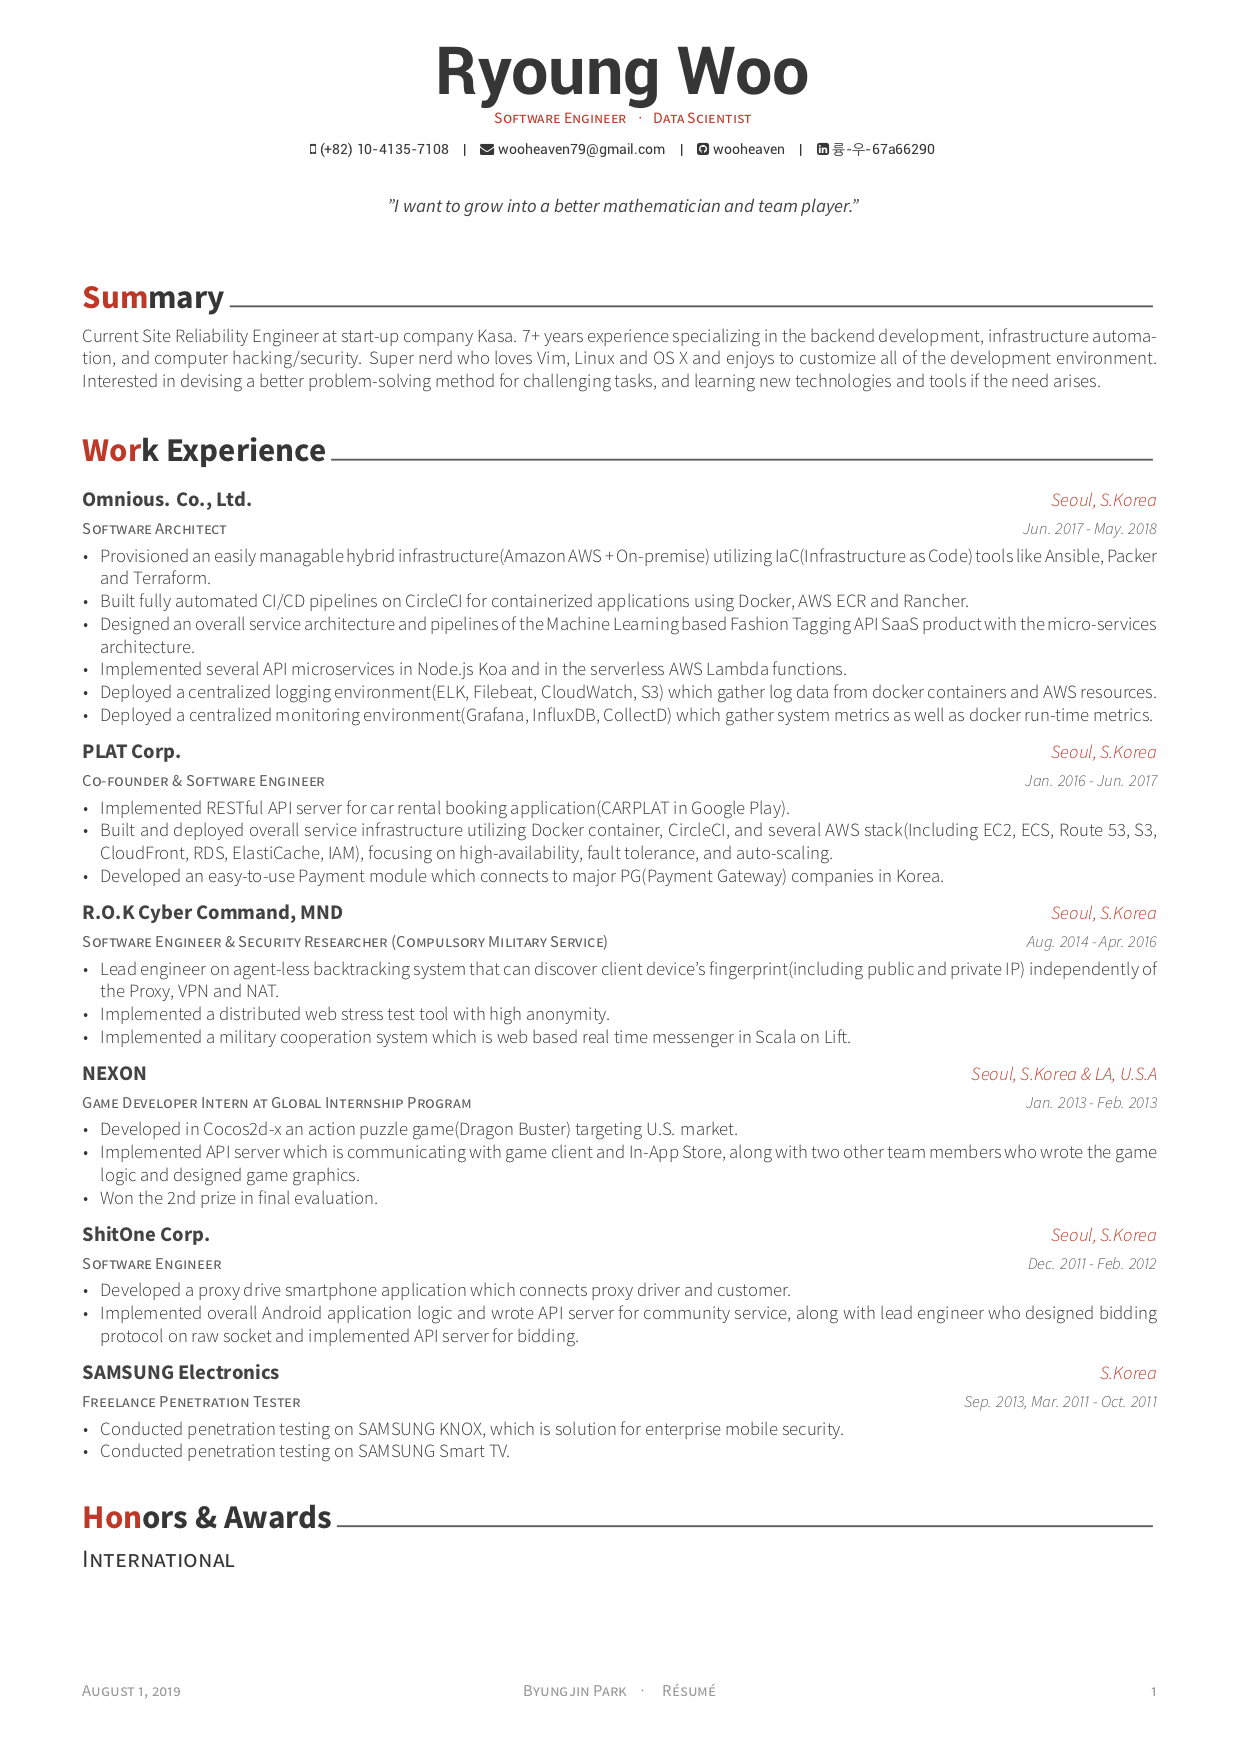
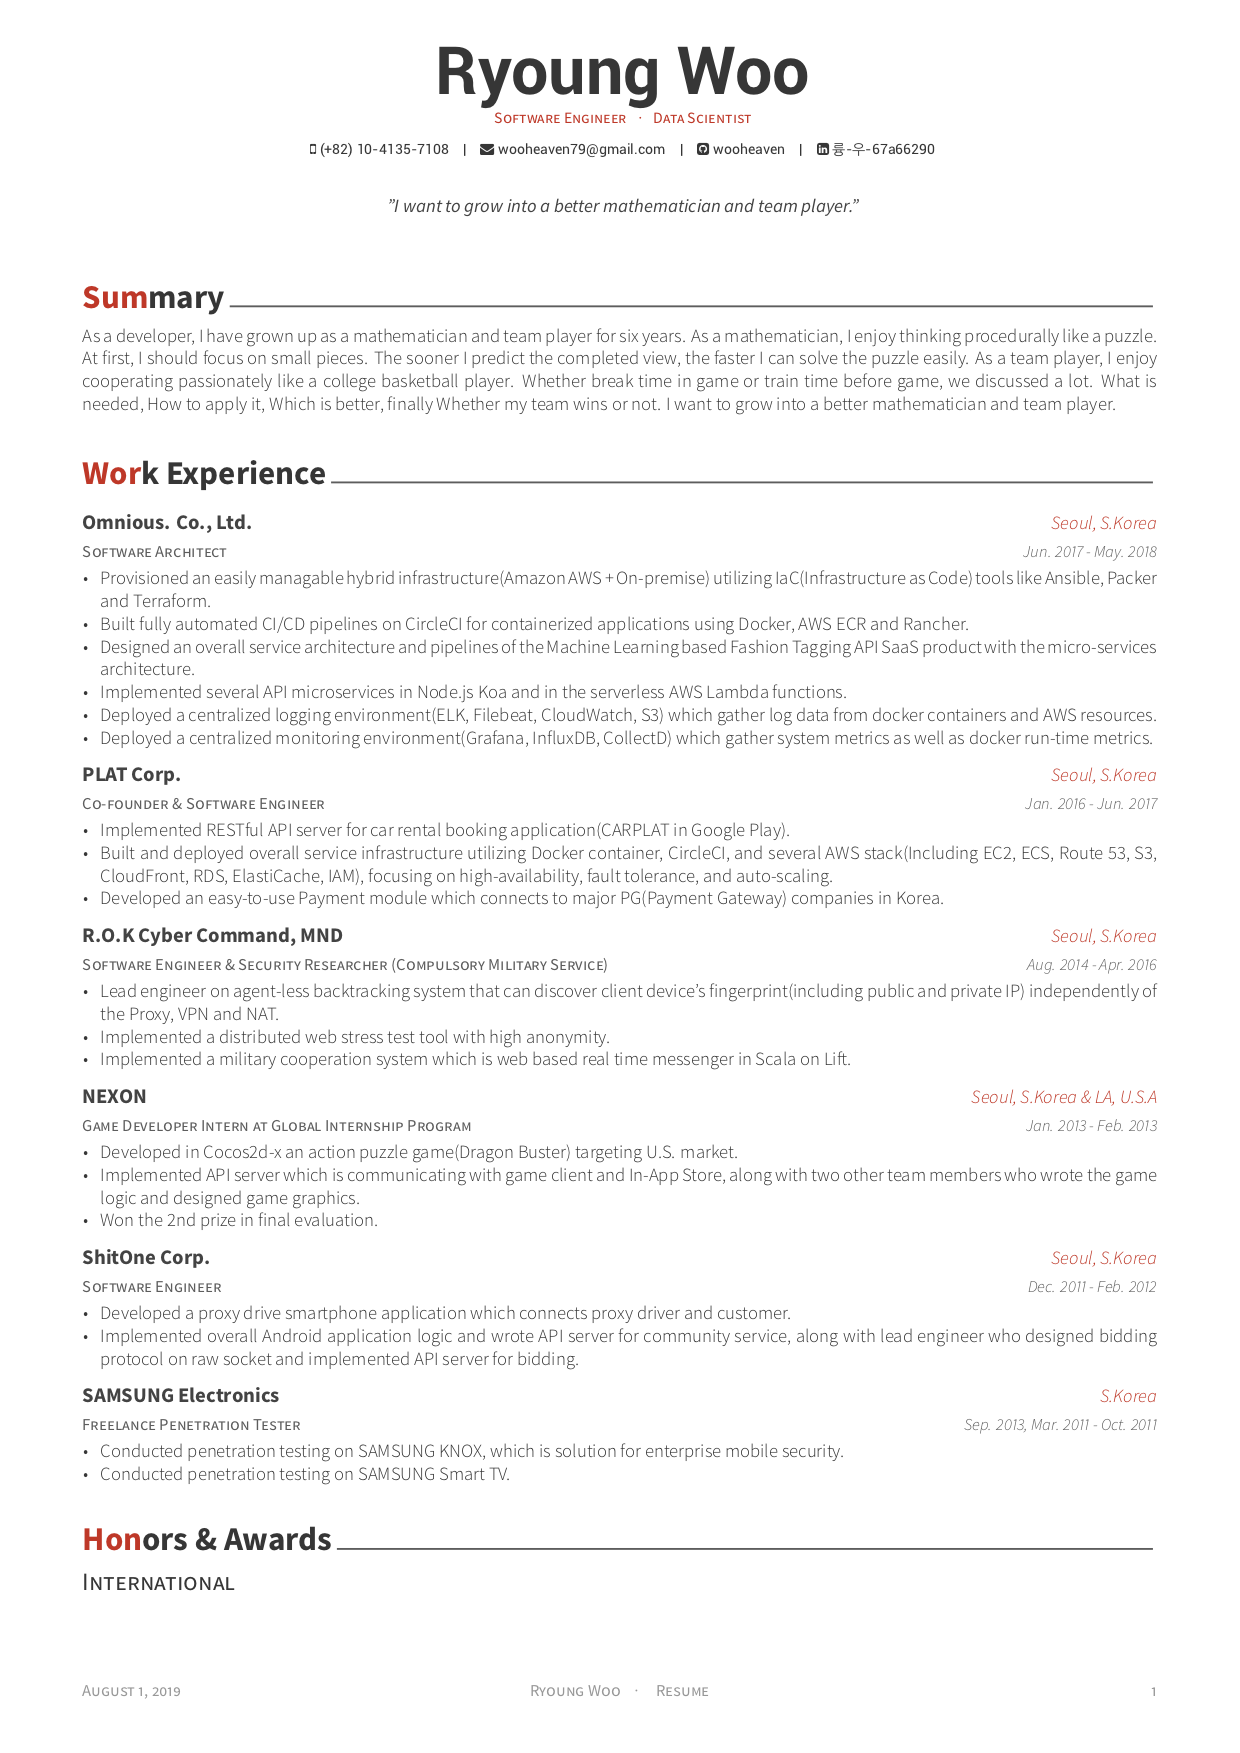
#4-comment-circleci-remove-modify-summary-footer ``` modified:   README.md modified:   examples/resume-0.png modified:   examples/resume-1.png modified:   examples/resume.pdf modified:   examples/resume.tex modified:   examples/resume/summary.tex ```

diff --git a/examples/resume/summary.tex b/examples/resume/summary.tex
@@ -10,5 +10,12 @@
 \begin{cvparagraph}
 
 %---------------------------------------------------------
-Current Site Reliability Engineer at start-up company Kasa. 7+ years experience specializing in the backend development, infrastructure automation, and computer hacking/security. Super nerd who loves Vim, Linux and OS X and enjoys to customize all of the development environment. Interested in devising a better problem-solving method for challenging tasks, and learning new technologies and tools if the need arises.
+As a developer, I have grown up as a mathematician and team player for six years.
+As a mathematician, I enjoy thinking procedurally like a puzzle.
+At first, I should focus on small pieces.
+The sooner I predict the completed view, the faster I can solve the puzzle easily.
+As a team player, I enjoy cooperating passionately like a college basketball player.
+Whether break time in game or train time before game, we discussed a lot.
+What is needed, How to apply it, Which is better, finally Whether my team wins or not.
+I want to grow into a better mathematician and team player.
 \end{cvparagraph}

diff --git a/examples/resume.tex b/examples/resume.tex
@@ -88,7 +88,7 @@
 % Leave any of these blank if they are not needed
 \makecvfooter
   {\today}
-  {Byungjin Park~~~·~~~Résumé}
+  {Ryoung Woo~~~·~~~Resume}
   {\thepage}
 
 

diff --git a/README.md b/README.md
@@ -15,10 +15,10 @@
   <a href="https://www.paypal.me/posquit0">
     <img alt="Donate" src="https://img.shields.io/badge/Donate-PayPal-blue.svg" />
   </a>
--->
   <a href="https://circleci.com/gh/posquit0/Awesome-CV">
     <img alt="CircleCI" src="https://circleci.com/gh/posquit0/Awesome-CV.svg?style=shield" />
   </a>
+-->
   <a href="https://gitlab.com/wooheaven/Awesome-CV/blob/master/examples/resume.pdf">
     <img alt="Example Resume" src="https://img.shields.io/badge/resume-pdf-green.svg" />
   </a>
@@ -38,13 +38,13 @@
 
 ## Preview
 
-#### Résumé
+#### Resume
 
 You can see [PDF](examples/resume.pdf)
 
 | Page. 1 | Page. 2 |
 |:---:|:---:|
-| [![Resume1](examples/resume-0.png)] | [![Resume](examples/resume-1.png)] |
+| ![Resume1](examples/resume-0.png) | ![Resume](examples/resume-1.png) |
 
 #### Cover Letter
 
